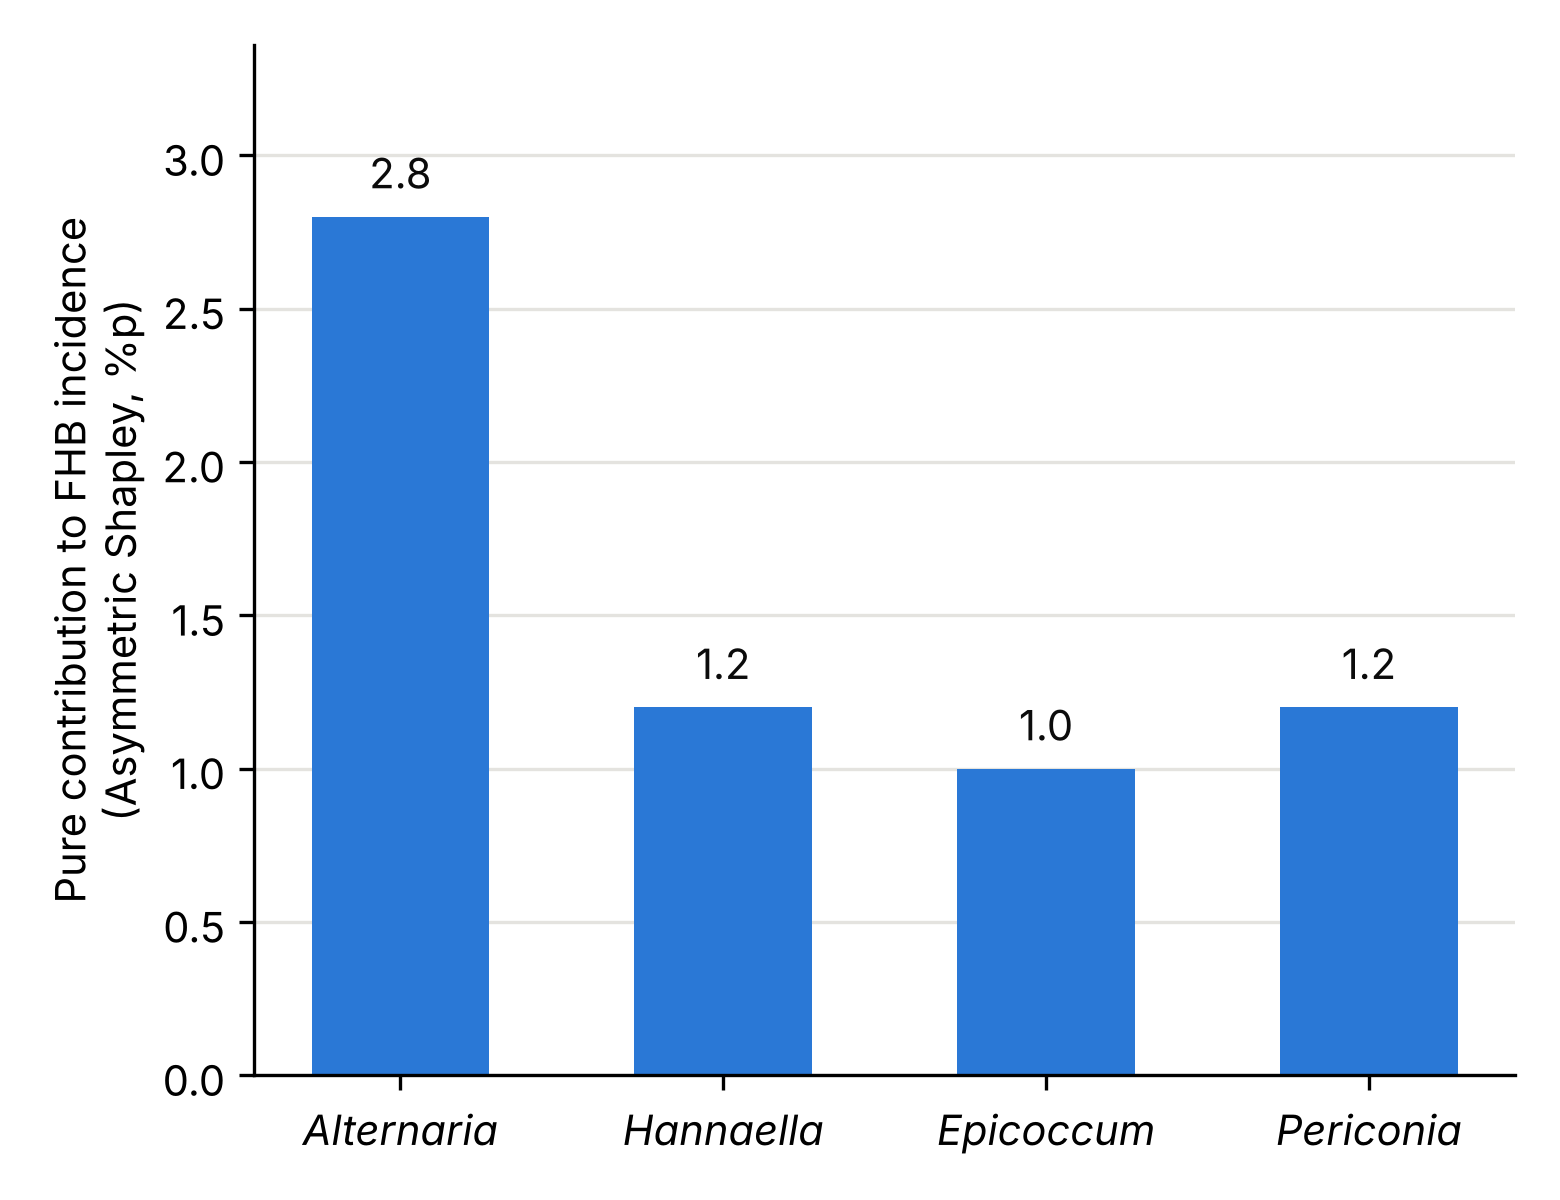
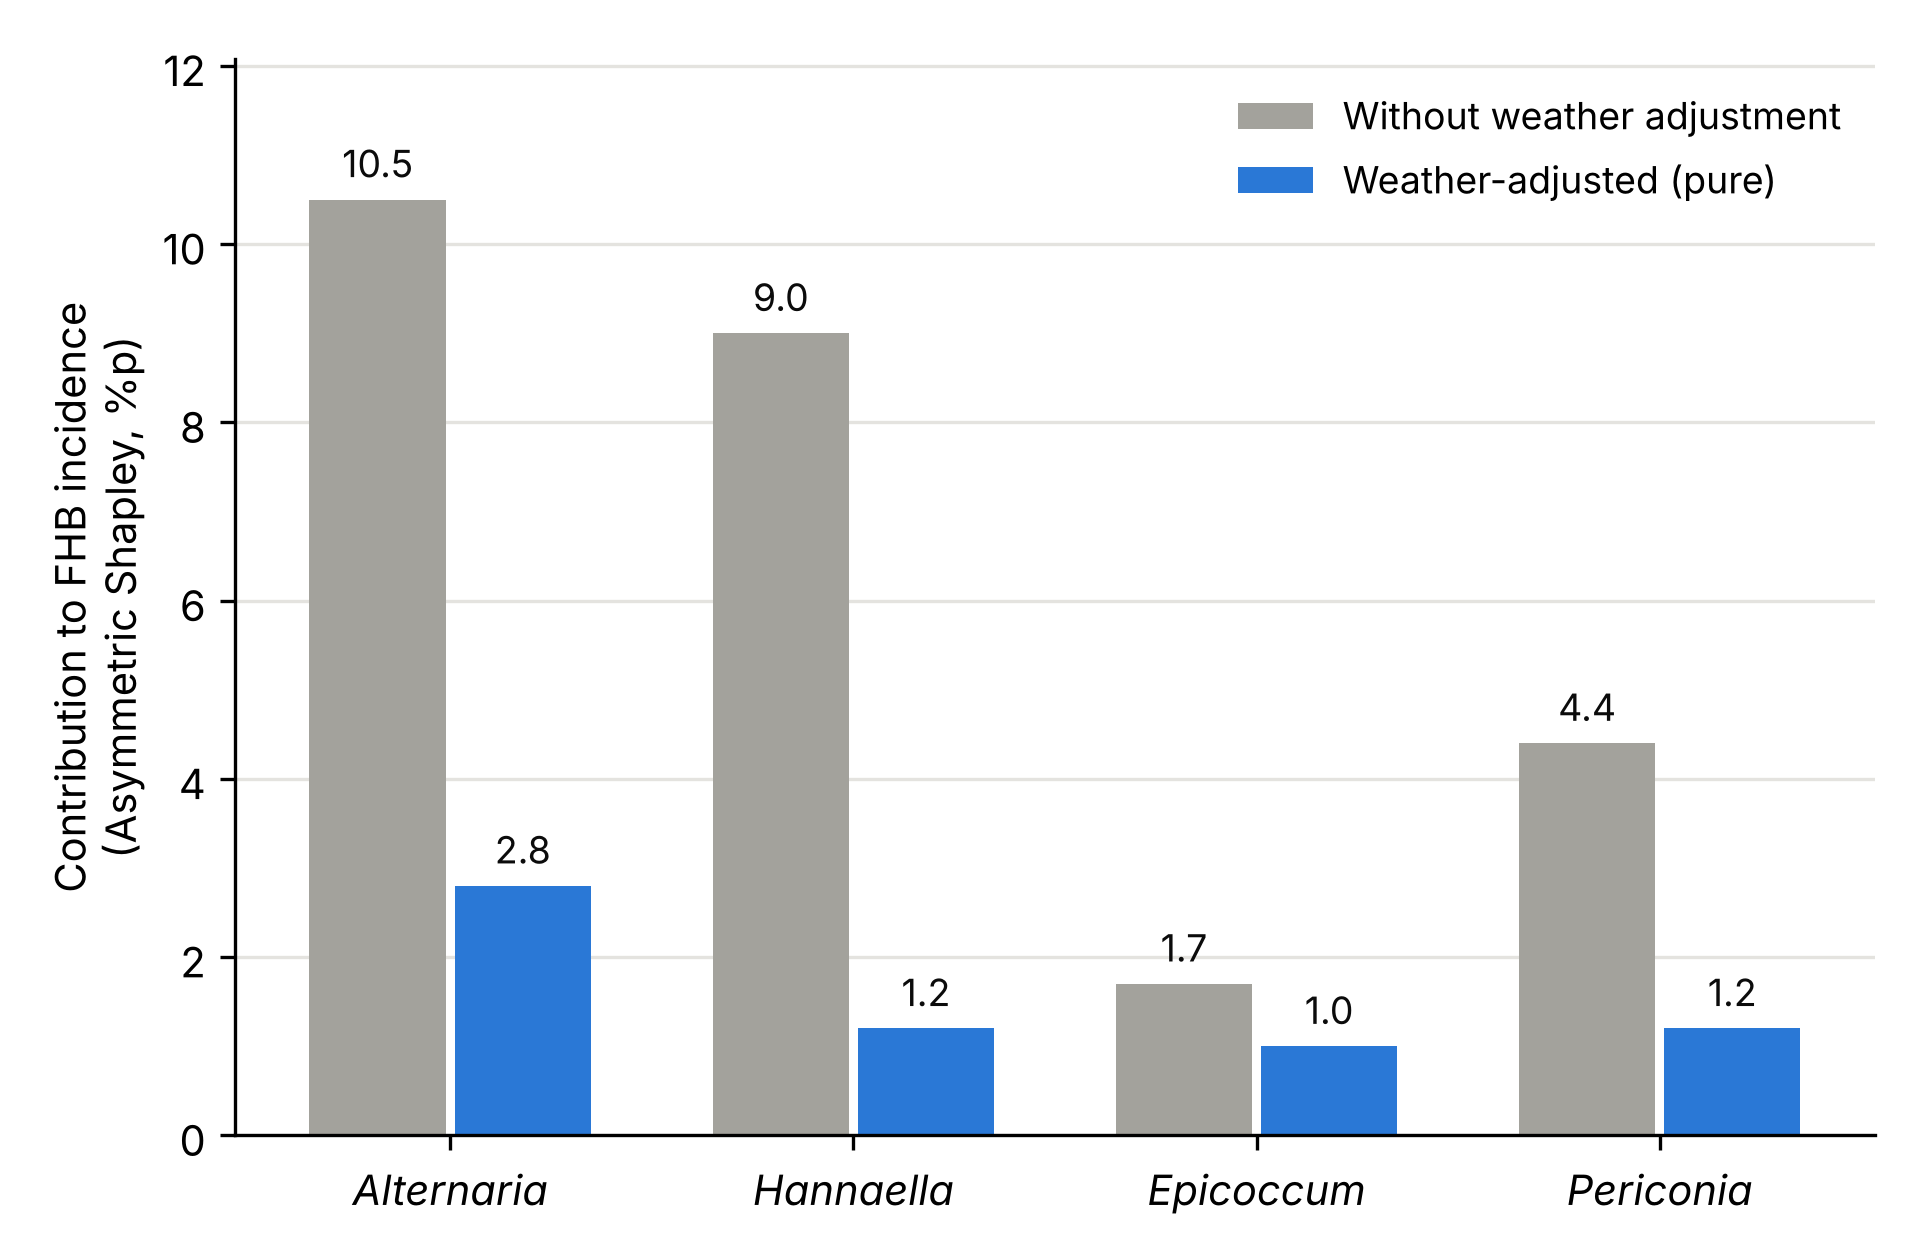
ASV bar chart: add contributions without weather adjustment
Claude-Session: https://claude.ai/code/session_01UYKnS29yPzdxp6zQ3hDPmo

diff --git a/Phytobiome/plot_asv_pure_contribution.py b/Phytobiome/plot_asv_pure_contribution.py
@@ -1,29 +1,41 @@
-"""Bar chart of pure (weather-adjusted) contributions from the asymmetric Shapley analysis
-(flowering temperature + RH credited first; values from output/causal_shapley_weather_TRH)."""
+"""Bar chart of genus contributions from the asymmetric Shapley analysis
+(flowering temperature + RH; values from output/causal_shapley_weather_TRH):
+  - without weather adjustment : genera credited before weather (ASV genera-first)
+  - weather-adjusted ("pure")  : weather credited before genera (ASV env-first)"""
 import os
 
 import matplotlib
 matplotlib.use("Agg")
 import matplotlib.pyplot as plt
+import numpy as np
+import pandas as pd
 
 HERE = os.path.dirname(os.path.abspath(__file__))
-OUT = os.path.join(HERE, "output", "causal_shapley_weather_TRH", "asv_pure_contribution_bar.png")
+SRC = os.path.join(HERE, "output", "causal_shapley_weather_TRH")
+OUT = os.path.join(SRC, "asv_pure_contribution_bar.png")
 
 genera = ["Alternaria", "Hannaella", "Epicoccum", "Periconia"]
-values = [2.8, 1.2, 1.0, 1.2]          # mean |ASV| (FHB %p), environment-first ordering
+tab = pd.read_csv(os.path.join(SRC, "mean_abs_attribution.csv"), index_col=0)
+series = [("Without weather adjustment", tab.loc[genera, "ASV genera-first"].round(1).values, "#a3a29c"),
+          ("Weather-adjusted (pure)", tab.loc[genera, "ASV env-first"].round(1).values, "#2a78d6")]
 
-fig, ax = plt.subplots(figsize=(5.2, 4))
-bars = ax.bar(genera, values, width=0.55, color="#2a78d6")
-for b, v in zip(bars, values):
-    ax.text(b.get_x() + b.get_width() / 2, v + 0.06, f"{v:.1f}", ha="center", va="bottom",
-            fontsize=10, color="#0b0b0b")
-ax.set_ylabel("Pure contribution to FHB incidence\n(Asymmetric Shapley, %p)")
-ax.set_ylim(0, max(values) * 1.2)
+x = np.arange(len(genera))
+w = 0.36
+fig, ax = plt.subplots(figsize=(6.4, 4.2))
+for k, (label, vals, col) in enumerate(series):
+    bars = ax.bar(x + (k - 0.5) * w, vals, width=w * 0.94, color=col, label=label)
+    for b, v in zip(bars, vals):
+        ax.text(b.get_x() + b.get_width() / 2, v + 0.15, f"{v:.1f}", ha="center", va="bottom",
+                fontsize=9, color="#0b0b0b")
+ax.set_xticks(x, genera)
+for lab in ax.get_xticklabels():
+    lab.set_fontstyle("italic")
+ax.set_ylabel("Contribution to FHB incidence\n(Asymmetric Shapley, %p)")
+ax.set_ylim(0, max(series[0][1].max(), series[1][1].max()) * 1.15)
 ax.yaxis.grid(True, color="#e4e3df", lw=0.8)
 ax.set_axisbelow(True)
 ax.spines[["top", "right"]].set_visible(False)
-for lab in ax.get_xticklabels():
-    lab.set_fontstyle("italic")
+ax.legend(frameon=False, fontsize=9)
 fig.tight_layout()
 fig.savefig(OUT, dpi=300)
 print(OUT)
